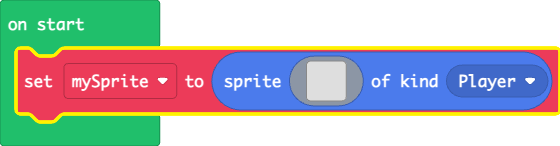
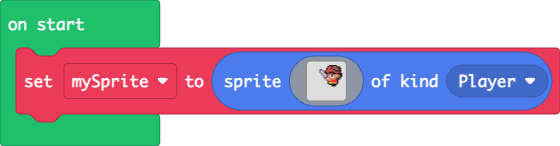
Update main.blocks, main.ts

Changed region(s): [[0.0, 0.3014, 1.0, 0.8493], [0.5464, 0.4384, 0.6375, 0.6027]]

diff --git a/main.ts b/main.ts
@@ -1,18 +1,26 @@
 let mySprite = sprites.create(img`
-    . . . . . . . . . . . . . . . . 
-    . . . . . . . . . . . . . . . . 
-    . . . . . . . . . . . . . . . . 
-    . . . . . . . . . . . . . . . . 
-    . . . . . . . . . . . . . . . . 
-    . . . . . . . . . . . . . . . . 
-    . . . . . . . . . . . . . . . . 
-    . . . . . . . . . . . . . . . . 
-    . . . . . . . . . . . . . . . . 
-    . . . . . . . . . . . . . . . . 
-    . . . . . . . . . . . . . . . . 
-    . . . . . . . . . . . . . . . . 
-    . . . . . . . . . . . . . . . . 
-    . . . . . . . . . . . . . . . . 
-    . . . . . . . . . . . . . . . . 
-    . . . . . . . . . . . . . . . . 
+    ..............ffffff....
+    .............f2feeeeff..
+    ............f222feeeeff.
+    .......cc...feeeeffeeef.
+    .......cdc.fe2222eeffff.
+    .......cddcf2effff222ef.
+    ........cddcffeeefffffff
+    .........cddce44fbe44eff
+    ..........cdceddf14d4eef
+    ..........cccdeddd4eeef.
+    ...........edd4e44eeff..
+    ............ee442222f...
+    .............f2e2222f...
+    .............f554444f...
+    ..............ffffff....
+    ................fff.....
+    ........................
+    ........................
+    ........................
+    ........................
+    ........................
+    ........................
+    ........................
+    ........................
     `, SpriteKind.Player)
